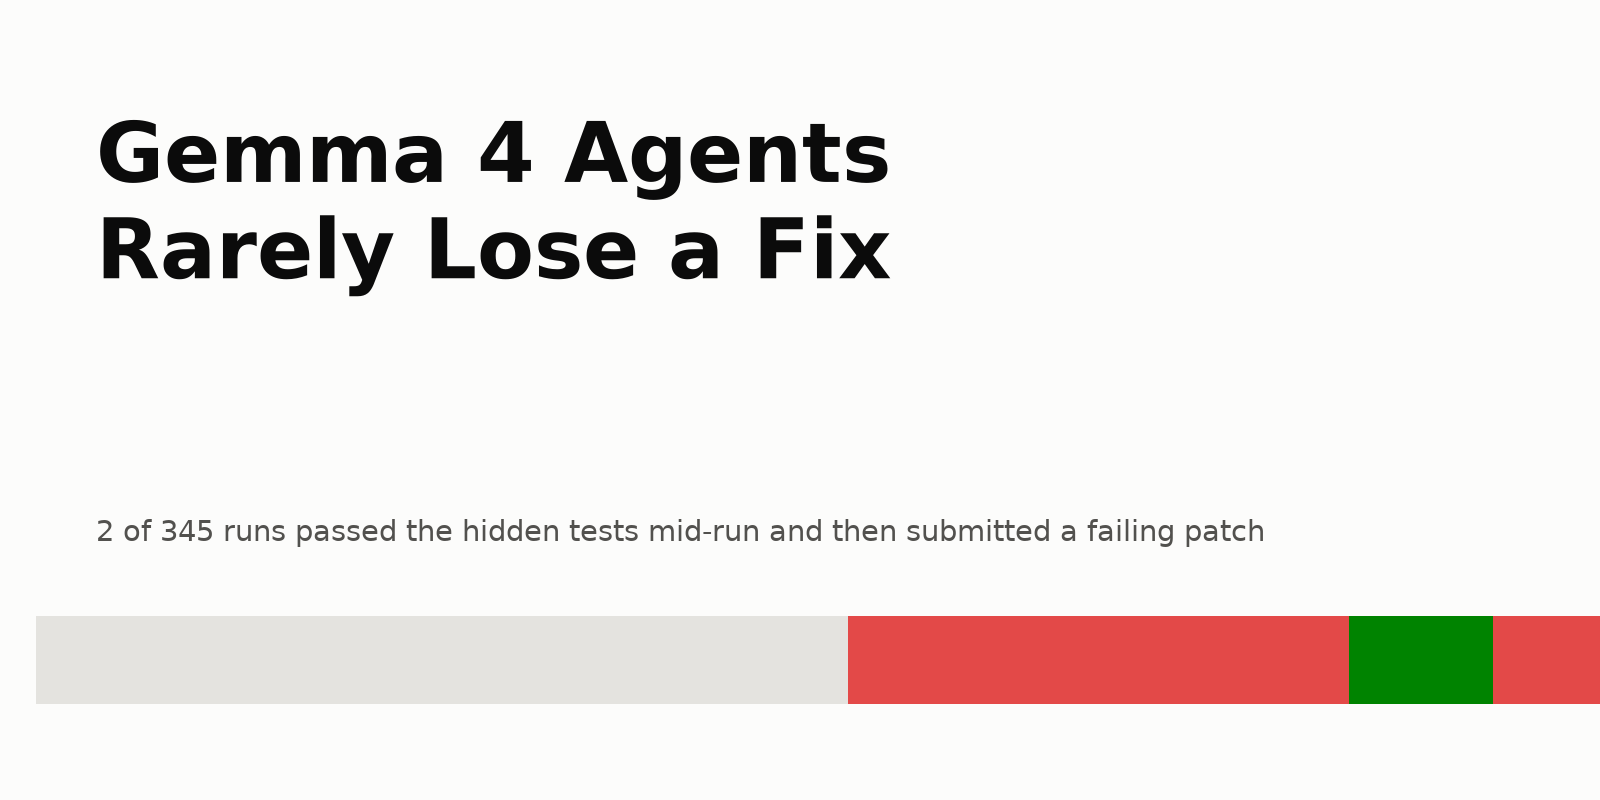
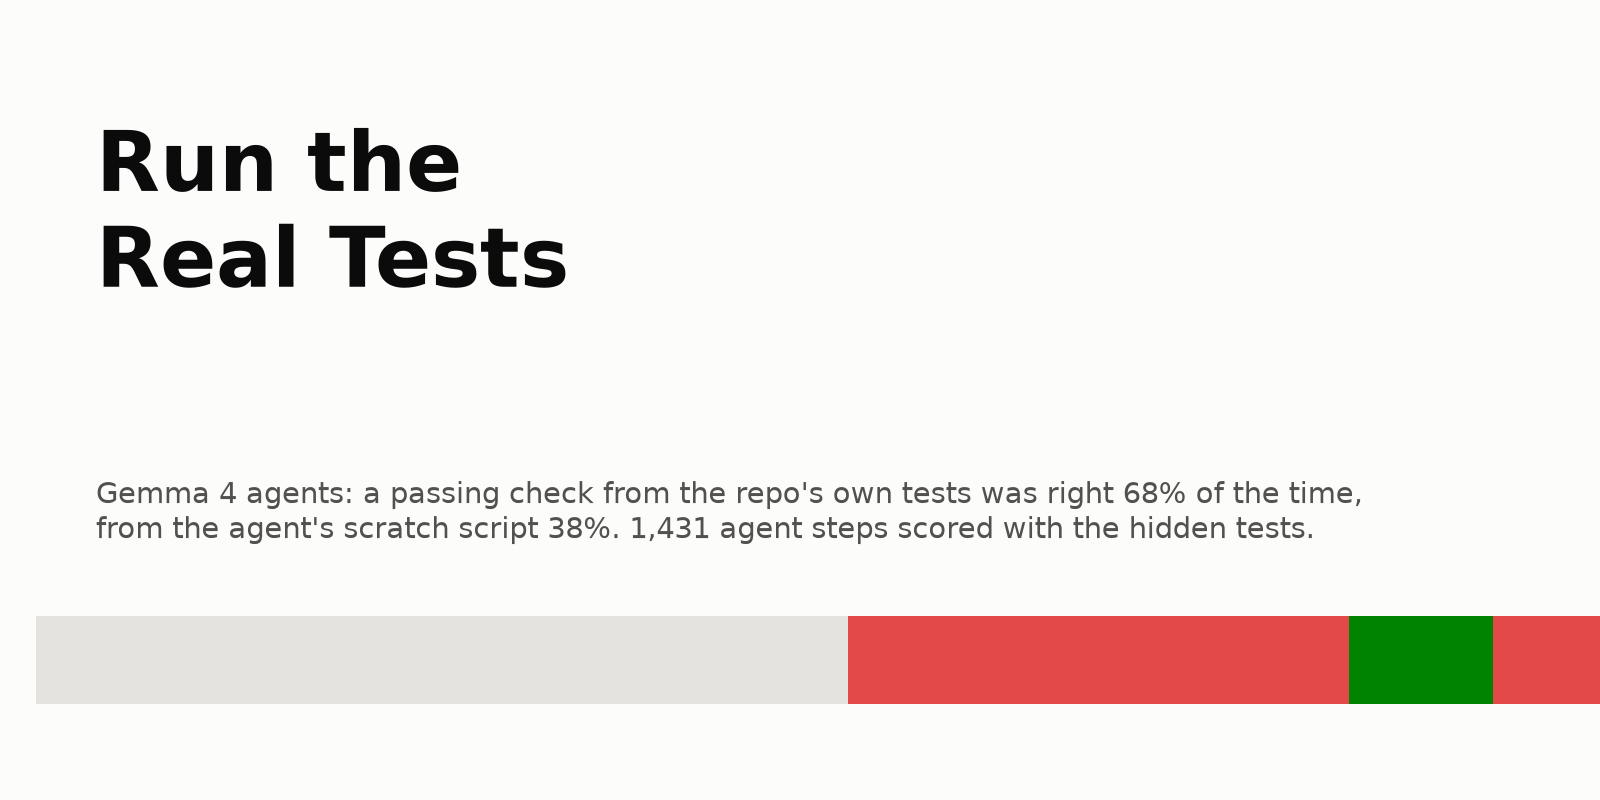
Cover and thumbnail match the new title

Changed region(s): [[0.0625, 0.125, 0.5625, 0.375], [0.0625, 0.5938, 0.8438, 0.6875]]

diff --git a/analysis/cover.py b/analysis/cover.py
@@ -39,9 +39,9 @@ def make(w, h, name, title_size, stat_size):
     ax.set_ylim(0, 10)
     ax.axis('off')
     strip(ax, 1.2, 1.1)
-    ax.text(end * 0.06, 8.6, 'Gemma 4 Agents\nRarely Lose a Fix', fontsize=title_size, weight='bold', color=INK,
+    ax.text(end * 0.06, 8.6, 'Run the\nReal Tests', fontsize=title_size, weight='bold', color=INK,
             va='top', linespacing=1.15)
-    ax.text(end * 0.06, 3.15, '2 of 345 runs passed the hidden tests mid-run and then submitted a failing patch',
+    ax.text(end * 0.06, 3.15, 'Gemma 4 agents: a passing check from the repo\'s own tests was right 68% of the time,\nfrom the agent\'s scratch script 38%. 1,431 agent steps scored with the hidden tests.',
             fontsize=stat_size, color=INK2, va='bottom', wrap=True)
     fig.savefig(out / name, dpi=200, facecolor=SURF)
     plt.close(fig)
